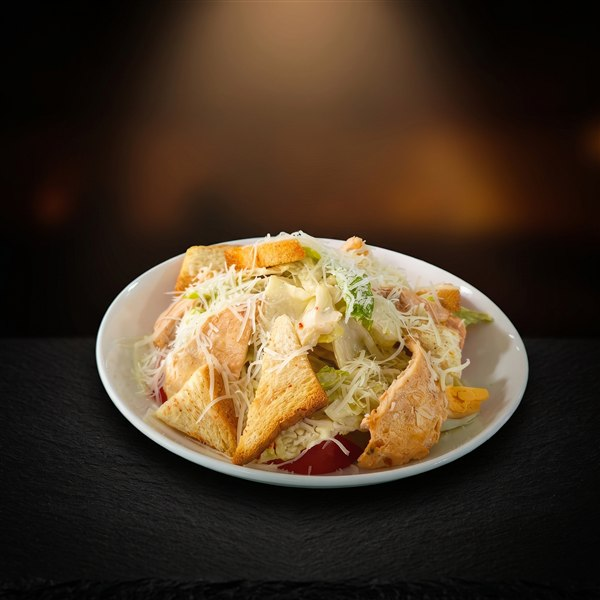
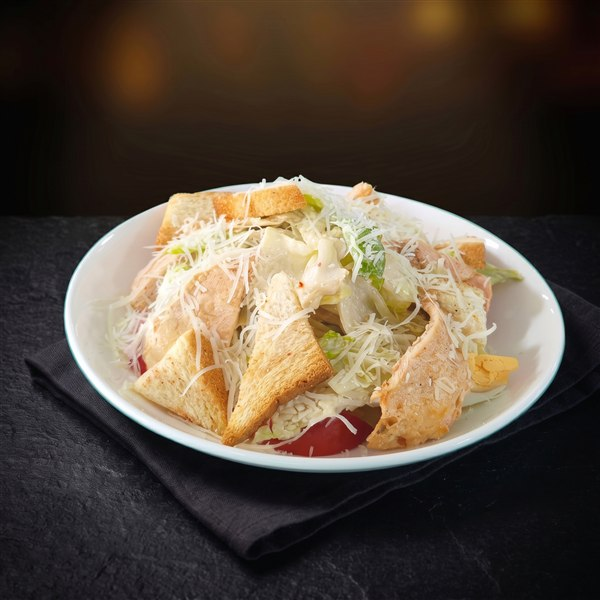
Replace Salad category with 6 new salads and photos

diff --git a/app/data/menu.ts b/app/data/menu.ts
@@ -51,8 +51,12 @@ export const menuCategories: MenuCategory[] = [
     label: 'Салат',
     defaultImage: 'https://images.unsplash.com/photo-1512621776951-a57141f2eefd?w=400&h=260&fit=crop',
     items: [
-      { name: 'Салат острый', description: 'говядина, болгарский перец, огурец, соус, зелень · 250 г', price: 250, image: '/images/salat-ostry.jpg' },
-      { name: 'Цезарь', description: 'салат, соус, гренки, помидор, сыр · 205 г', price: 250, image: '/images/salat-cezar.jpg' },
+      { name: 'Свекольный салат', description: '180 г', price: 179, image: '/images/salat-svekolny.jpg' },
+      { name: 'Морковь по-корейски', description: '200 г', price: 190, image: '/images/salat-korovcha.jpg' },
+      { name: 'Салат острый', description: '250 г', price: 225, image: '/images/salat-ostry.jpg' },
+      { name: 'Салат свежая нарезка', description: '250 г', price: 185, image: '/images/salat-narezka.jpg' },
+      { name: 'Салат греческий', description: '250 г', price: 230, image: '/images/salat-grechesky.jpg' },
+      { name: 'Салат цезарь', description: '250 г', price: 220, image: '/images/salat-cezar.jpg' },
     ],
   },
   {